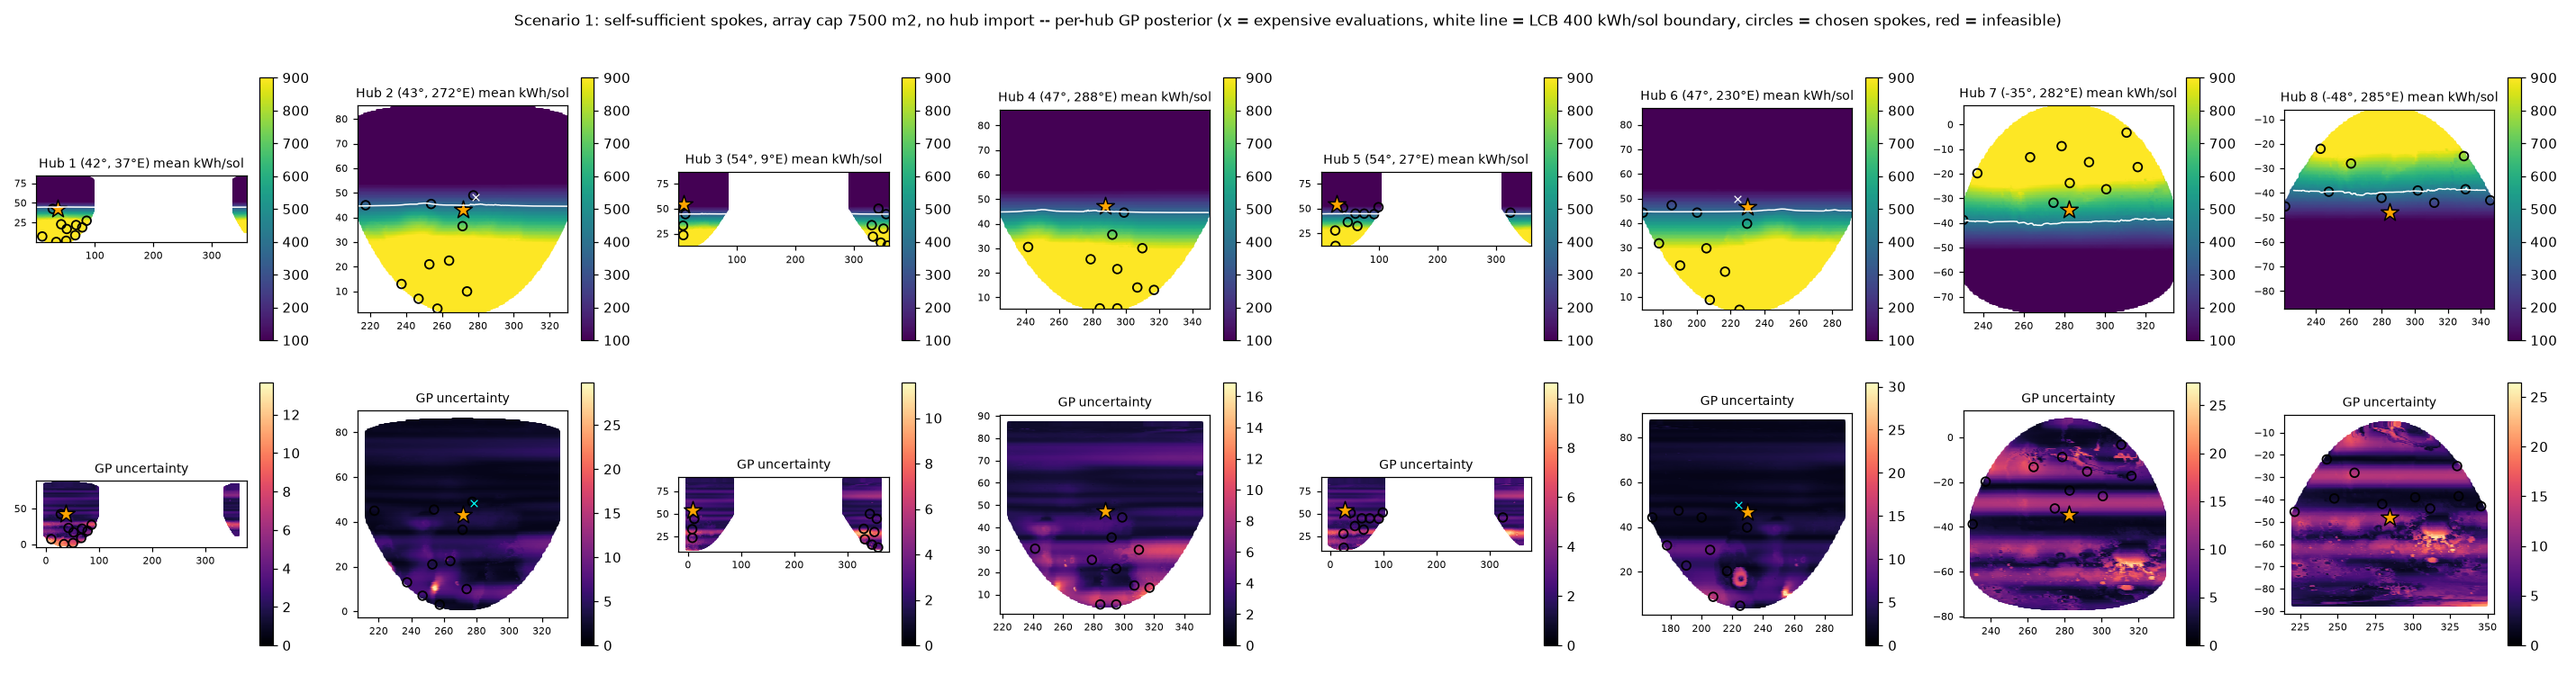
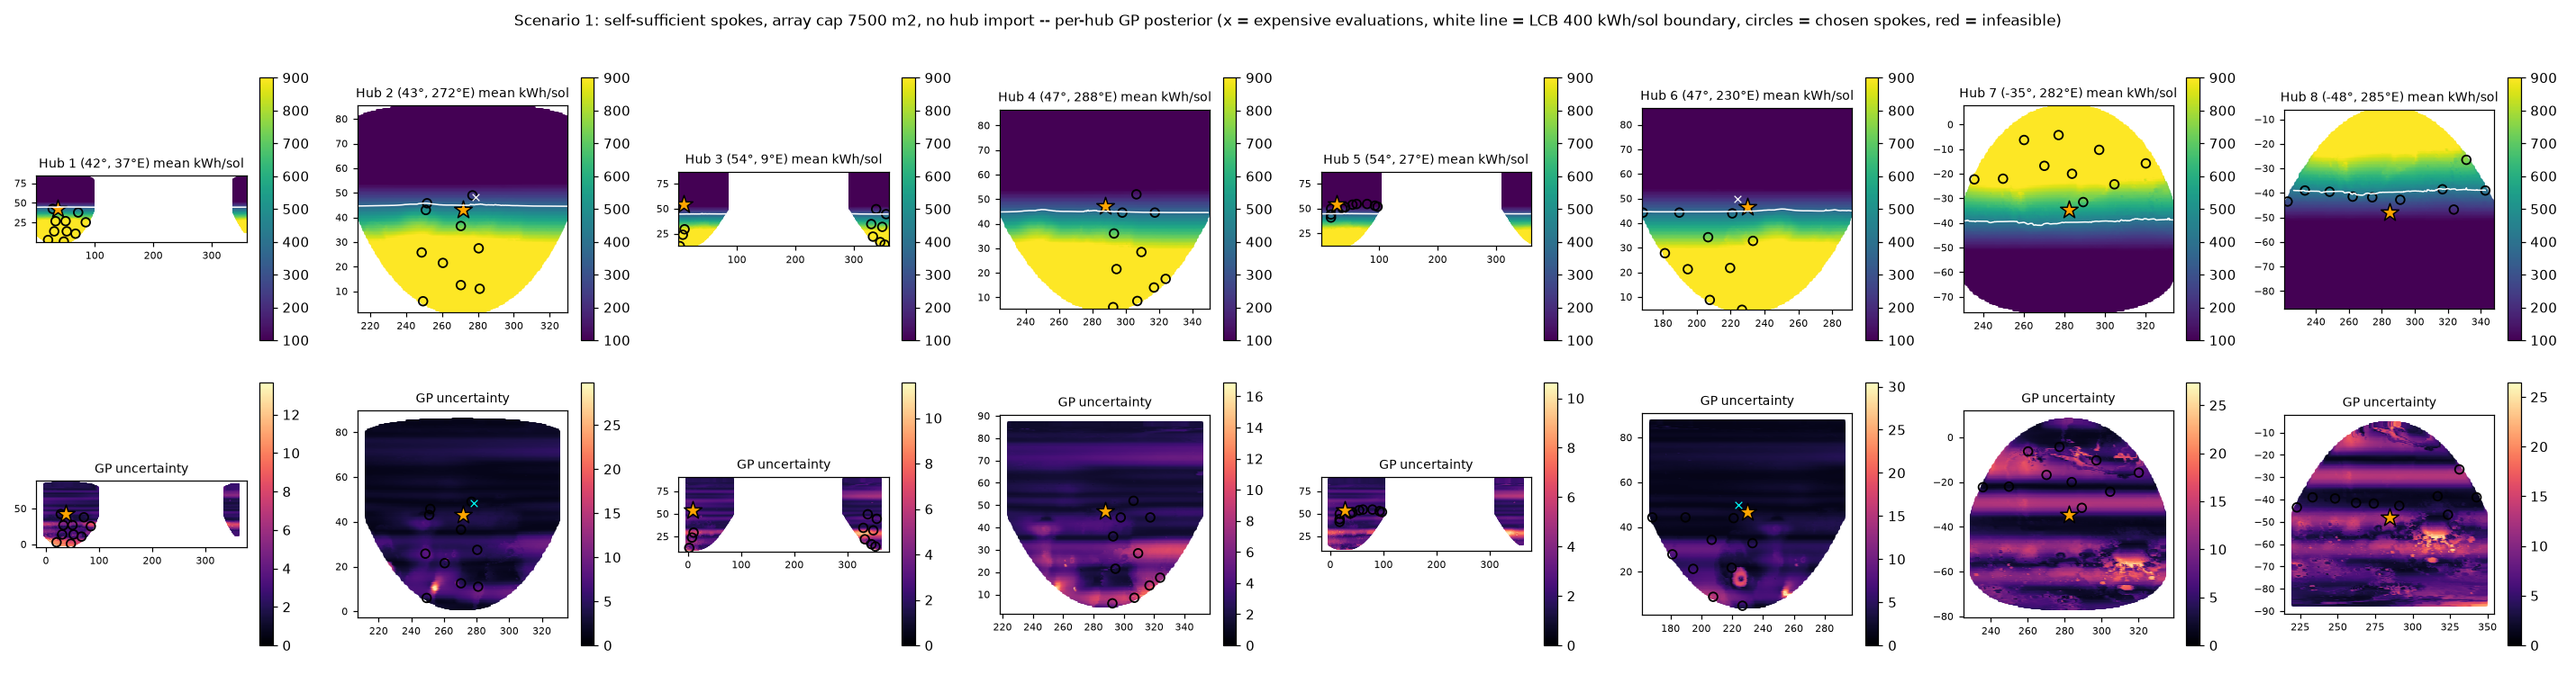
Spoke siting: assign every spoke to its nearest hub, per-hub legends, wrapped pipelines

diff --git a/spoke_siting/run.py b/spoke_siting/run.py
@@ -12,7 +12,7 @@ import matplotlib
 matplotlib.use("Agg")
 import matplotlib.pyplot as plt
 
-from .geo import load_hubs
+from .geo import load_hubs, haversine_km
 from .mola import _load as load_mola
 from .gp_surrogate import sample_disk, evaluate_sites, fit_gp, features, candidate_grid
 from .optimize_spokes import select_spokes, DEMAND_KWH, MAX_PV_AREA_M2
@@ -53,6 +53,11 @@ def main():
     # candidate grids (cheap) for every hub
     grids = {h["id"]: candidate_grid(h, a.range_km) for h in hubs}
     allc = {k: np.concatenate([g[k] for g in grids.values()]) for k in ("lat", "lon", "elev", "dist_km", "hub_id")}
+    # every candidate belongs to its NEAREST hub (disks overlap, so re-assign after the union)
+    d_all = np.stack([haversine_km(allc["lat"], allc["lon"], h["lat"], h["lon"]) for h in hubs])   # (hubs, cands)
+    nearest = np.argmin(d_all, axis=0)
+    allc["hub_id"] = np.array([hubs[i]["id"] for i in nearest])
+    allc["dist_km"] = d_all[nearest, np.arange(len(nearest))]
 
     # 2. active learning: spend more expensive evals where the surrogate is least sure
     for r in range(a.active_rounds):
@@ -62,7 +67,6 @@ def main():
         idx = []
         for _ in range(a.active_per_round):
             j = int(np.argmax(acq)); idx.append(j)
-            from .geo import haversine_km
             acq *= 1 - np.exp(-(haversine_km(allc["lat"], allc["lon"], allc["lat"][j], allc["lon"][j]) / (0.15 * a.range_km)) ** 2)
         new = np.column_stack([allc["lat"][idx], allc["lon"][idx], allc["elev"][idx]])
         print(f"Active round {r+1}: evaluating {len(new)} most-informative sites ...")
@@ -120,7 +124,7 @@ def draw_network(ax, hubs, rows, max_area, marker="o", alpha=1.0, label_prefix="
                     ax.plot([h["lon"] + shift, lon + shift], [h["lat"], r["lat"]], ls="--", lw=0.7, color=c, alpha=0.6 * alpha, zorder=2)
         ax.scatter([r["lon"] for r in hr], [r["lat"] for r in hr], marker=marker, color=c, alpha=alpha,
                    s=[20 + 60 * (r["pv_area_m2"] / max_area) for r in hr], edgecolors="k", linewidths=0.4, zorder=3,
-                   label="spoke (colour = parent hub, size = array area)" if (k == 0 and lines) else None)
+                   label=f"H{h['id']} ({abs(h['lat']):.0f}°{'N' if h['lat'] > 0 else 'S'}, {h['lon']:.0f}°E) + its spokes" if lines else None)
         bad = [r for r in hr if not r["feasible"]]
         if bad:
             ax.scatter([r["lon"] for r in bad], [r["lat"] for r in bad], facecolors="none", edgecolors="red", s=90, linewidths=1.0, zorder=4)
@@ -139,9 +143,7 @@ def plot_overlay(hubs, scenarios, a):
     draw_network(ax, hubs, s2["rows"], s2["max_area"], marker="s", alpha=0.55, lines=True)
     ax.scatter([], [], marker="o", c="w", edgecolors="k", label="Scenario 1 (circles): self-sufficient")
     ax.scatter([], [], marker="s", c="w", edgecolors="k", alpha=0.6, label="Scenario 2 (squares, dashed pipelines): hub-supported")
-    h, l = ax.get_legend_handles_labels()
-    keep = [i for i, t in enumerate(l) if t.startswith("Scenario") or t.startswith("hub")]
-    ax.legend([h[i] for i in keep], [l[i] for i in keep], loc="lower left", fontsize=8)
+    ax.legend(loc="lower left", fontsize=7, ncol=3, title="star = hub, marker size = PV area, dashed = scenario-2 pipeline", title_fontsize=7)
     ax.text(0.01, 0.99, "spoke colour = parent hub, marker size = PV array area, red ring = infeasible", transform=ax.transAxes, va="top", fontsize=8, color="w")
     ax.set_xlabel("longitude (°E)"); ax.set_ylabel("latitude"); ax.set_xlim(0, 360); ax.set_ylim(-90, 90)
     ax.set_title("Spoke layouts, both scenarios (colour = parent hub, size = array area)", fontsize=11)
@@ -158,7 +160,7 @@ def plot(hubs, grids, post, rows, X_sites, y, a, sc, out):
     ax.set_xlabel("longitude (°E)"); ax.set_ylabel("latitude"); ax.set_xlim(0, 360); ax.set_ylim(-90, 90)
     ax.set_title(f"{sc['label']}\n{a.spokes} spokes/hub within {a.range_km:.0f} km, arrays sized per site (marker size); "
                  f"GP surrogate of the storm Monte Carlo energy model, {len(y)} expensive evaluations", fontsize=11)
-    ax.legend(loc="lower left", fontsize=8, ncol=3)
+    ax.legend(loc="lower left", fontsize=7, ncol=3, title="star = hub, circle = spoke (size = PV area), dashed = pipeline", title_fontsize=7)
     fig.tight_layout(); fig.savefig(os.path.join(out, "spoke_map.png"), dpi=130); plt.close(fig)
 
     # --- per-hub panels: posterior mean, uncertainty, chosen spokes ---
